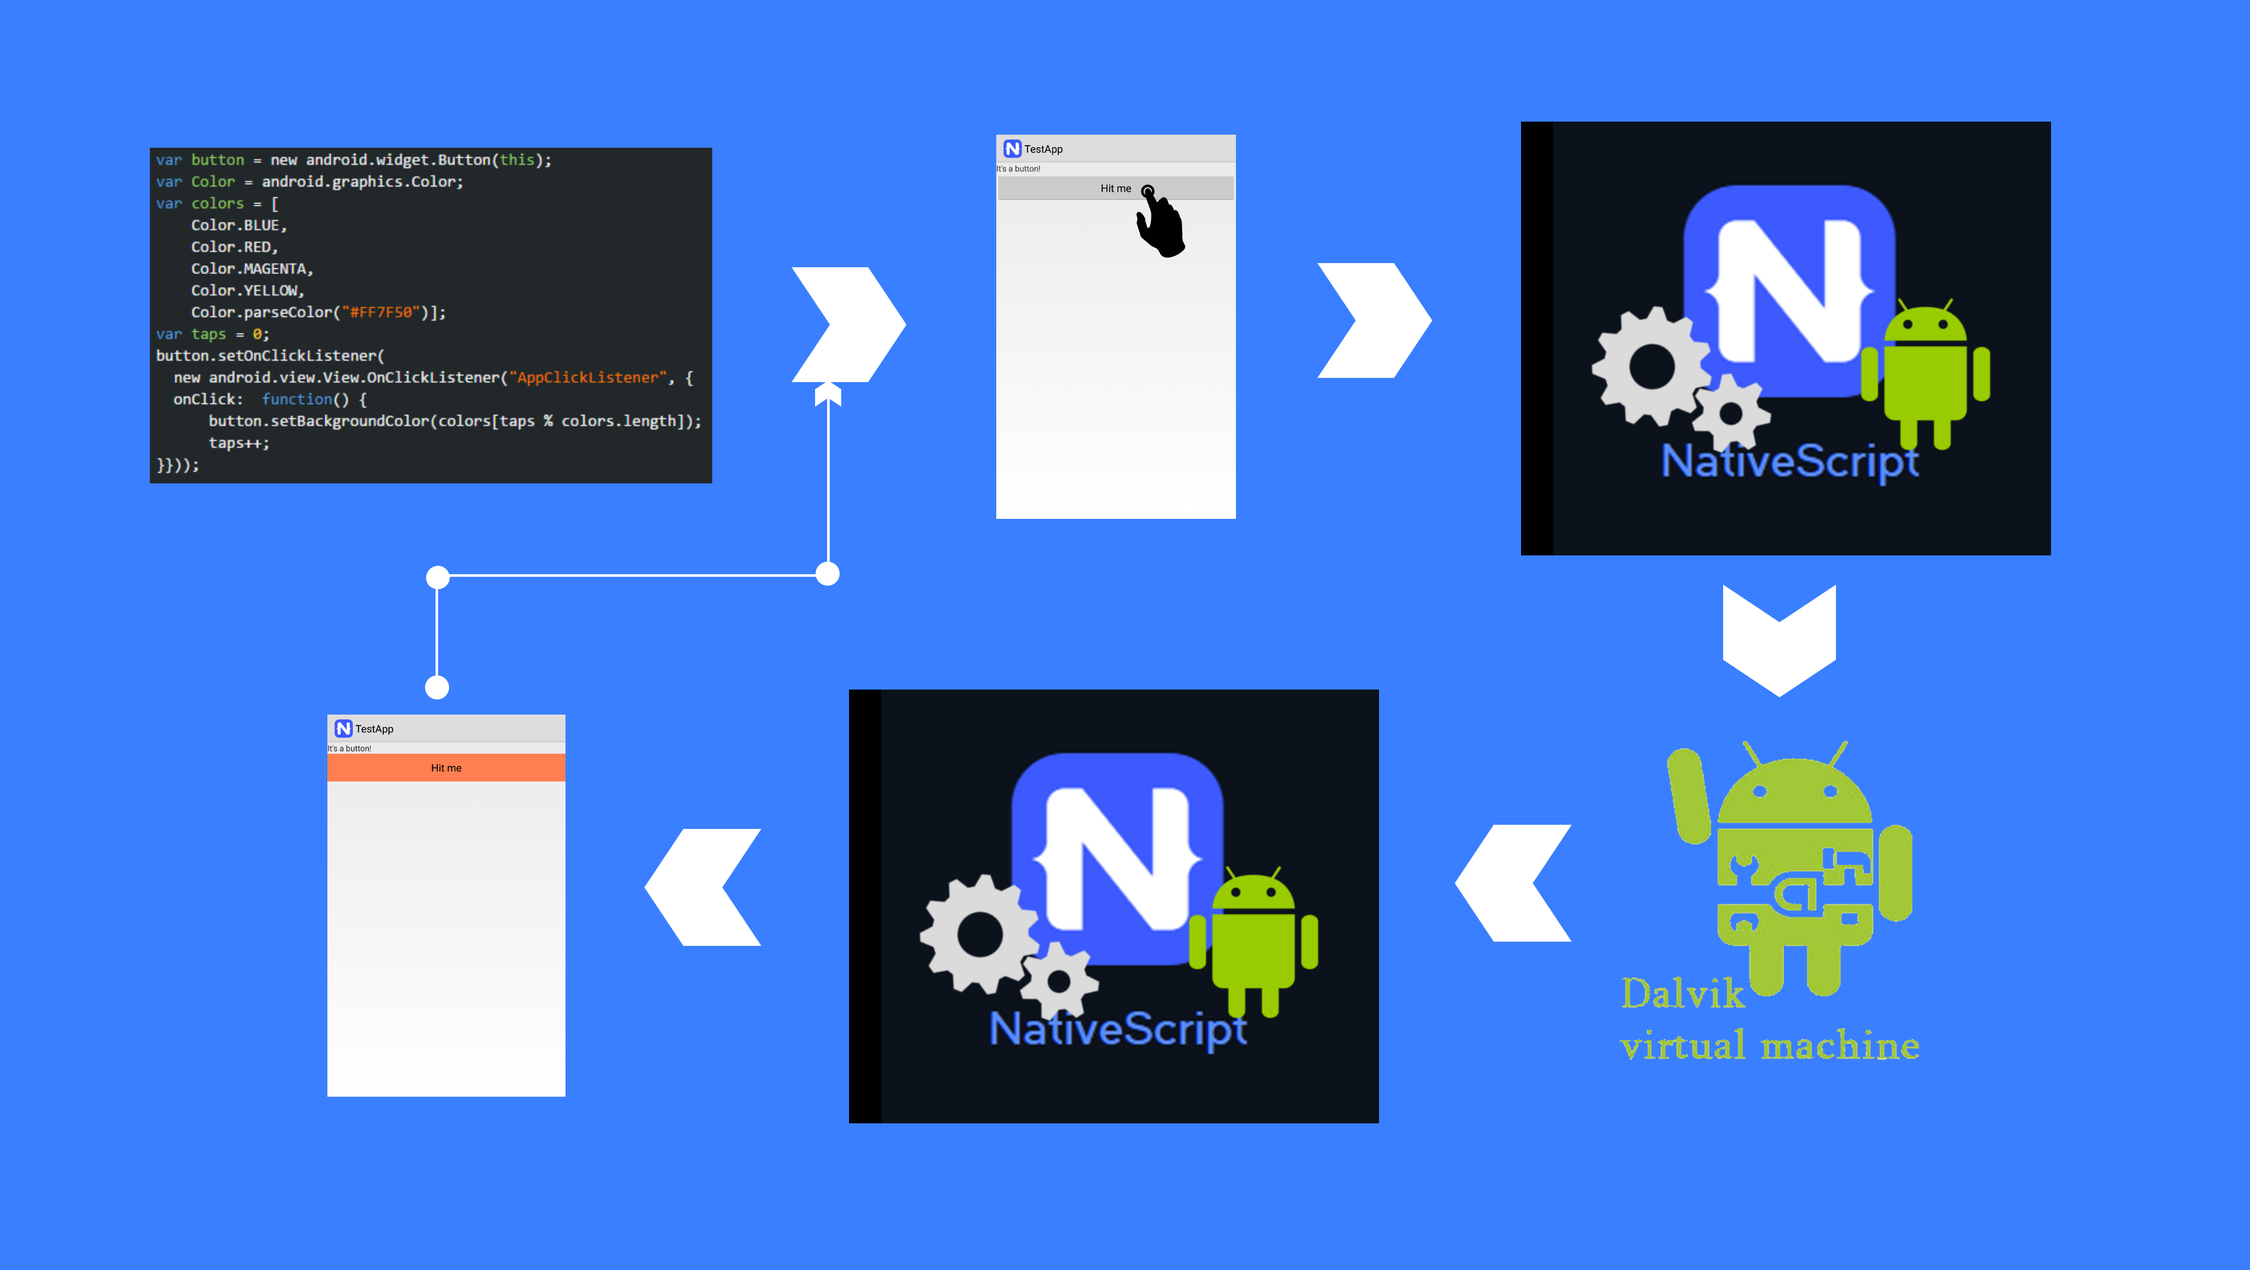
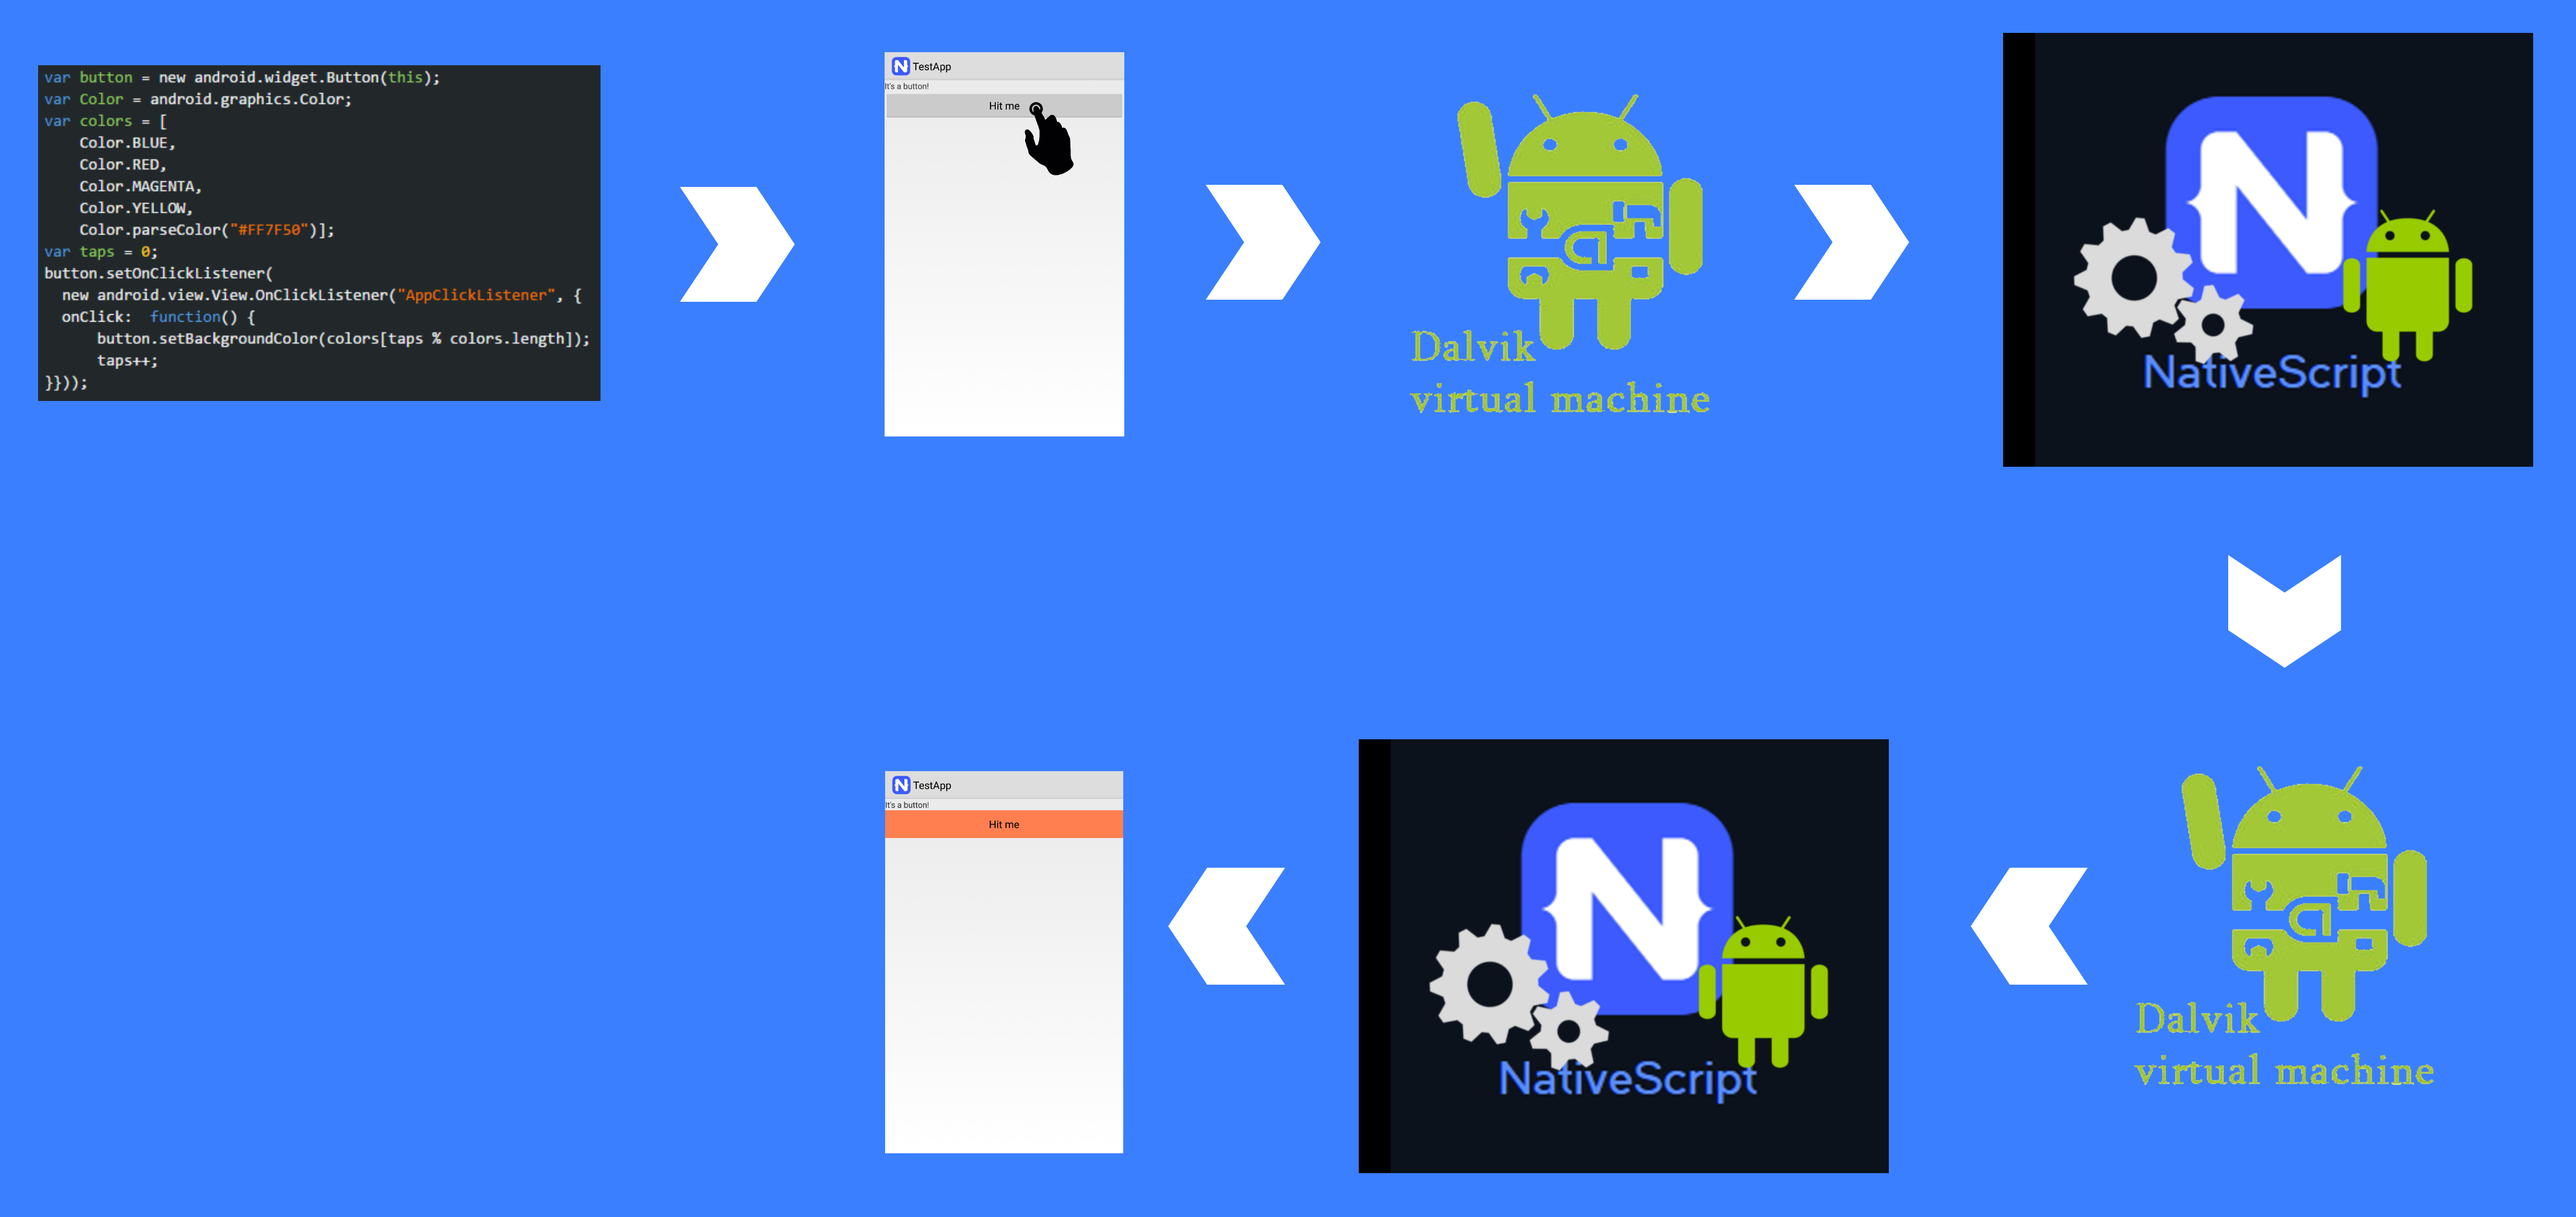
update execution-flow.md; update illustration

diff --git a/advanced-topics/execution-flow.md b/advanced-topics/execution-flow.md
@@ -9,7 +9,7 @@ position: 1
 
 Android Runtime 
 ---
-NativeScript is a framework which enables developers to write truly native mobile applications for Android and iOS using JavaScript and CSS. Each mobile platform has its own ecosystem and offers completely different development tools and language(s) - Java for Android and Objective C (Swift) for iOS. In order to translate JavaScript code to the corresponding native APIs some kind of proxy mechanism is needed. This is exactly what the ["Runtime" parts of NativeScript](http://docs.nativescript.org/runtimes/android/overview) are responsible for. The Android Runtime may be thought of as "The Bridge" between the JavaScript and Android worlds. 
+NativeScript is a framework which enables developers to write truly native mobile applications for Android and iOS using JavaScript and CSS. Each mobile platform has its own ecosystem and offers completely different development tools and language(s) - Java for Android and Objective C (Swift) for iOS. In order to translate JavaScript code to the corresponding native APIs some kind of proxy mechanism is needed. This is exactly what the ["Runtime" parts of NativeScript](../overview.md) are responsible for. The Android Runtime may be thought of as "The Bridge" between the JavaScript and Android worlds. 
  
 A NativeScript application for Android is a standard native package (apk) which besides the JavaScript files embed the runtime as well.
  
@@ -18,16 +18,16 @@ The Android Runtime is built on top of **[Google's V8 JavaScript Virtual Machine
 ---
  
 ## Google's V8
- V8 is the JavaScript Engine which compiles and executes the JavaScript code. It takes advantage of the [Just-In-Time technique](http://whatis.techtarget.com/definition/just-in-time-compiler-JIT) to process JavaScript code with great efficiency. [Read more.](https://github.com/v8/v8/wiki/Introduction)
+ V8 is the JavaScript Engine which compiles and executes the JavaScript code. It takes advantage of the [Just-In-Time technique](http://whatis.techtarget.com/definition/just-in-time-compiler-JIT) to process JavaScript code with great efficiency. [Read more.](https://developers.google.com/v8/)
  
 ## JNI
  JNI is the **Java Native Interface** that provides means for Java code to interact with native code. Put shortly - it allows a Java program to invoke functions in another C/C++ program and vice versa. In the context of a NativeScript application JNI is the communicational layer between the V8 JavaScript Engine and the platform - Java/Android code. [Read more.](http://developer.android.com/training/articles/perf-jni.html)
  
 ## Metadata Generator 
- The [Metadata Generator](http://docs.nativescript.org/runtimes/android/metadata/overview.html) uses Apache Commons BCEL to iterate through all native dependencies added to the project, and exposes their public API to the Android Runtime.
+ The [Metadata Generator](../metadata/overview.md) uses Apache Commons BCEL to iterate through all native dependencies added to the project, and exposes their public API to the Android Runtime.
      
 ## Bindings Generator
- The Bindings Generator is responsible for the dynamic generation of implemented classes and interfaces. When the user implements an Android object, a custom Java proxy object is created. The process of generating Java classes at run-time is highly optimized. [Read more.](http://docs.nativescript.org/runtimes/android/generator/overview.html)
+ The [Bindings Generator](../generator/overview.md) is responsible for the dynamic generation of implemented classes and interfaces. When the user implements an Android object, a custom Java proxy object is created. The process of generating Java classes at run-time is highly optimized.
  
 ---
  
@@ -83,10 +83,13 @@ And now let's go through the steps of exactly what happens when we write the abo
 
 ---
  
-# Application Workflow Illustration
+# Execution Flow Illustration
+Now that we know how to access the native API, let's have a look at the common execution flow of an application written in NativeScript.
+Triggering an event in Android will always be handled by the Dalvik Virtual Machine ([ART](https://en.wikipedia.org/wiki/Android_Runtime)) which acts as the first responder in a native application. Any implementation included in the body of the event will then be executed by the NativeScript Android runtime, and the result of the operation returned to JavaScript. If a change to a native variable or view is made, instructions will again go through Dalvik. 
+
+**Note**: If no changes to native variables are present as a result of the execution of the callback (for example, when a local JavaScript variable that doesnt hold a reference to an Android object is modified - a number, a string, an array of JavaScript Objects, etc.), no calls to Dalvik will be made.
+ 
+Execution Flow illustration:
 ![How a NativeScript program's execution flow looks like on Android devices](app_process.png)
 
 ---
-
-# Summary
-... To be finished
